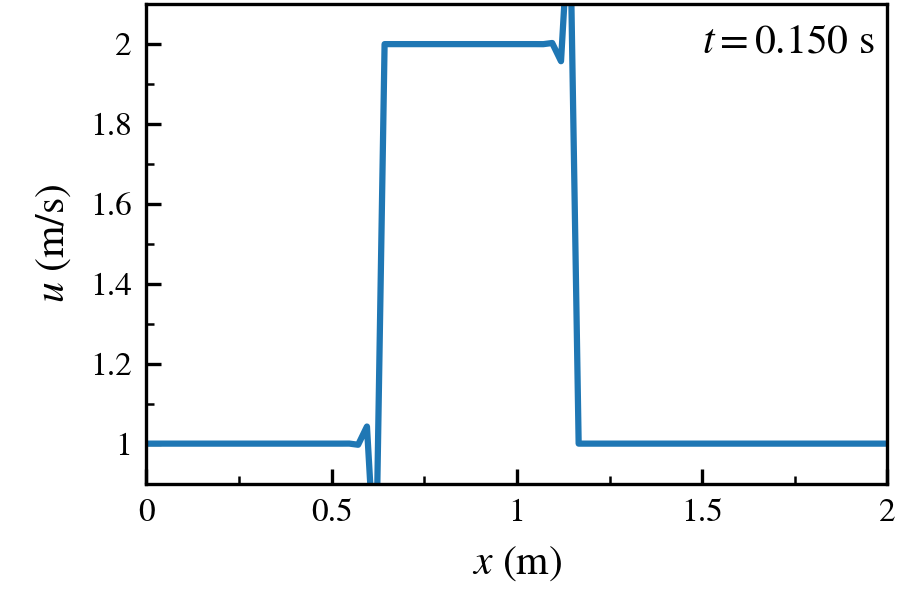
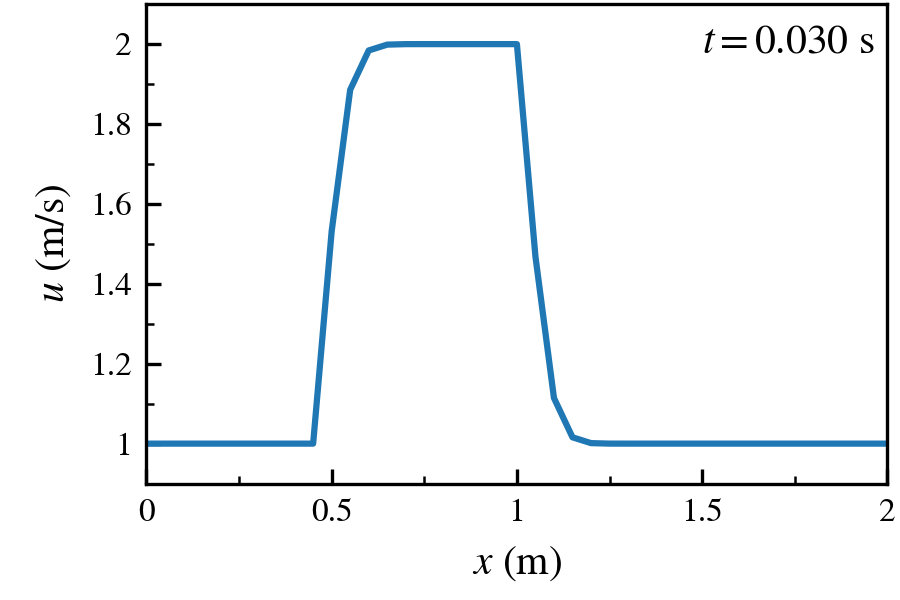
finish 2d calculations

Changed region(s): [[0.3422, 0.06, 0.4356, 0.81], [0.56, 0.0, 0.6533, 0.75], [0.8711, 0.03, 0.9333, 0.09]]

diff --git a/2_1dNonlinearConvection.py b/2_1dNonlinearConvection.py
@@ -3,7 +3,7 @@ Solve the 1-D nonlinear convection equation using the finite difference method.
 '''
 
 import numpy as np                              # here we load numpy
-from matplotlib import pyplot as plt             # here we load matplotlib
+from matplotlib import pyplot as plt            # here we load matplotlib
 import time, sys                                # here we load some utilities
 from matplotlib.ticker import (MultipleLocator, FormatStrFormatter, AutoMinorLocator)
 from mpl_toolkits.axes_grid1.inset_locator import inset_axes
@@ -14,8 +14,8 @@ plt.rcParams["mathtext.fontset"] = "stix"       # set the math font to Times
 lx = 2                                          # consider a domain that is 2 unit of length
 nx = 41                                         # the number of grid points
 dx = lx/(nx-1)                                  # grid spacing
-nt = 25                                         # the number of time steps
-dt = 0.025                                      # time step
+nt = 100                                        # the number of time steps
+dt = 0.005                                      # time step
 
 ## Define the initial condition - a hat function
 u = np.ones(nx)                                 # create an array which is nx elements long with every value equal to 1

diff --git a/8_2dBergersEquation.py b/8_2dBergersEquation.py
@@ -72,12 +72,12 @@ for n in range(nt):
 
     # array operation on the finite difference form of the horizontal velocity
     u[1:-1,1:-1] = un[1:-1,1:-1]-dt/dx*un[1:-1,1:-1]*(un[1:-1,1:-1]-un[1:-1,:-2]) \
-                                -dt/dy*vn[1:-1,1:-1]*(vn[1:-1,1:-1]-vn[:-2,1:-1]) \
+                                -dt/dy*vn[1:-1,1:-1]*(un[1:-1,1:-1]-un[:-2,1:-1]) \
                                 +nu*dt/dx/dx*(un[1:-1,2:]-2*un[1:-1,1:-1]+un[1:-1,:-2]) \
                                 +nu*dt/dy/dy*(un[2:,1:-1]-2*un[1:-1,1:-1]+un[:-2,1:-1])
 
     # array operation on the finite difference form of the vertical velocity
-    v[1:-1,1:-1] = vn[1:-1,1:-1]-dt/dx*un[1:-1,1:-1]*(un[1:-1,1:-1]-un[1:-1,:-2]) \
+    v[1:-1,1:-1] = vn[1:-1,1:-1]-dt/dx*un[1:-1,1:-1]*(vn[1:-1,1:-1]-vn[1:-1,:-2]) \
                                 -dt/dy*vn[1:-1,1:-1]*(vn[1:-1,1:-1]-vn[:-2,1:-1]) \
                                 +nu*dt/dx/dx*(vn[1:-1,2:]-2*vn[1:-1,1:-1]+vn[1:-1,:-2]) \
                                 +nu*dt/dy/dy*(vn[2:,1:-1]-2*vn[1:-1,1:-1]+vn[:-2,1:-1])

diff --git a/4_1dBergersEquation.py b/4_1dBergersEquation.py
@@ -79,7 +79,7 @@ for t in range(nt):
     un = u.copy()                               # calculate u based on un
 
     # calculate the value at the interior grid points
-    for i in range(0,nx-1):
+    for i in range(1,nx-1):
         u[i] = un[i]-un[i]*dt/dx*(un[i]-un[i-1])+nu*dt/dx**2*(un[i+1]-2*un[i]+un[i-1])
 
     # set the boundary values according to the periodic boundary condition -> head = end
@@ -94,7 +94,7 @@ for t in range(nt):
     # plot and compare the numerical and analytical solutions
     plt.figure(figsize=(3,2))
     plt.plot(x, u, marker='.', label='numerical')
-    plt.plot(x, uright, label='analytical')
+    # plt.plot(x, uright, label='analytical')
 
     # set the axis properties
     ax = plt.gca()
@@ -116,7 +116,7 @@ for t in range(nt):
     ax.annotate('$t = {0:.3f}$ s'.format((t+1)*dt), xy=(0.75,0.9), xycoords='axes fraction', fontsize=10)
     
     # show the legend
-    plt.legend(fontsize=8)
+    # plt.legend(fontsize=8)
 
     # save and show the figure
     fileName = 'u{:0>3d}.png'.format(t+1)

diff --git a/6_2dNonlinearConvection.py b/6_2dNonlinearConvection.py
@@ -56,7 +56,7 @@ plt.tight_layout(pad=0.1)                       # make the layout tight to minim
 ax.annotate('$t = 0.000$ s', xy=(0.75,0.9), xycoords='axes fraction', fontsize=10)
 
 # save and show the figure
-folderName = '/home/ygc/Documents/Codes/cfd-python/2dNonlinearconvection/'
+folderName = '/home/ygc/Documents/Codes/cfd-python/2dNonlinearConvection/'
 fileName = 'u000.png'
 plt.savefig(folderName+fileName, dpi=300)
 plt.show(block=False)
@@ -70,8 +70,8 @@ for n in range(nt):
 
     for i in range(1,nx):
         for j in range(1,ny):
-            u[j,i] = un[j,i]-un[j,i]*dt/dx*(un[j,i]-un[j,i-1])-un[j,i]*dt/dy*(un[j,i]-un[j-1,i])
-            v[j,i] = vn[j,i]-vn[j,i]*dt/dx*(vn[j,i]-vn[j,i-1])-vn[j,i]*dt/dy*(vn[j,i]-vn[j-1,i])
+            u[j,i] = un[j,i]-un[j,i]*dt/dx*(un[j,i]-un[j,i-1])-vn[j,i]*dt/dy*(un[j,i]-un[j-1,i])
+            v[j,i] = vn[j,i]-un[j,i]*dt/dx*(vn[j,i]-vn[j,i-1])-vn[j,i]*dt/dy*(vn[j,i]-vn[j-1,i])
 
     # set the boundary values for both u and v according to the BCs
     u[0,:] = 1

diff --git a/1_1dLinearConvection.py b/1_1dLinearConvection.py
@@ -12,10 +12,10 @@ plt.rcParams["mathtext.fontset"] = "stix"       # set the math font to Times
 
 ## Define the geometry (length), spatial and temporal resolution, and the wavespeed
 lx = 2                                          # consider a domain that is 2 unit of length
-nx = 85                                         # the number of grid points
+nx = 41                                         # the number of grid points
 dx = lx/(nx-1)                                  # grid spacing
-nt = 25                                         # the number of time steps
-dt = 0.025                                      # time step
+nt = 100                                        # the number of time steps
+dt = 0.005                                      # time step
 c = 1                                           # wavespeed
 
 ## Define the initial condition - a hat function

diff --git a/3_1dDuffusion.py b/3_1dDuffusion.py
@@ -14,7 +14,7 @@ plt.rcParams["mathtext.fontset"] = "stix"       # set the math font to Times
 lx = 2                                          # consider a domain that is 2 unit of length
 nx = 41                                         # the number of grid points
 dx = lx/(nx-1)                                  # grid spacing
-nt = 25                                         # the number of time steps
+nt = 100                                        # the number of time steps
 nu = 0.3                                        # fluid kinematic viscosity
 sigma = 0.2                                     # a parameter we will learn later
 dt = sigma*dx**2/nu                             # time step for stability

diff --git a/5_2dLinearConvection.py b/5_2dLinearConvection.py
@@ -55,7 +55,7 @@ plt.tight_layout(pad=0.1)                       # make the layout tight to minim
 ax.annotate('$t = 0.000$ s', xy=(0.75,0.9), xycoords='axes fraction', fontsize=10)
 
 # save and show the figure
-folderName = '/home/ygc/Documents/Codes/cfd-python/2dLinearconvection/'
+folderName = '/home/ygc/Documents/Codes/cfd-python/2dLinearConvection/'
 fileName = 'u000.png'
 plt.savefig(folderName+fileName, dpi=300)
 plt.show(block=False)
